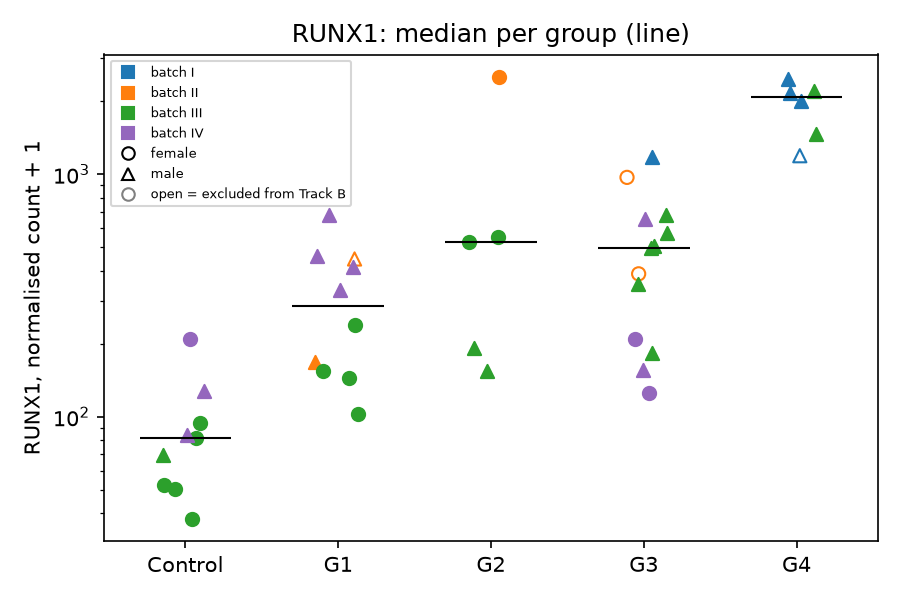
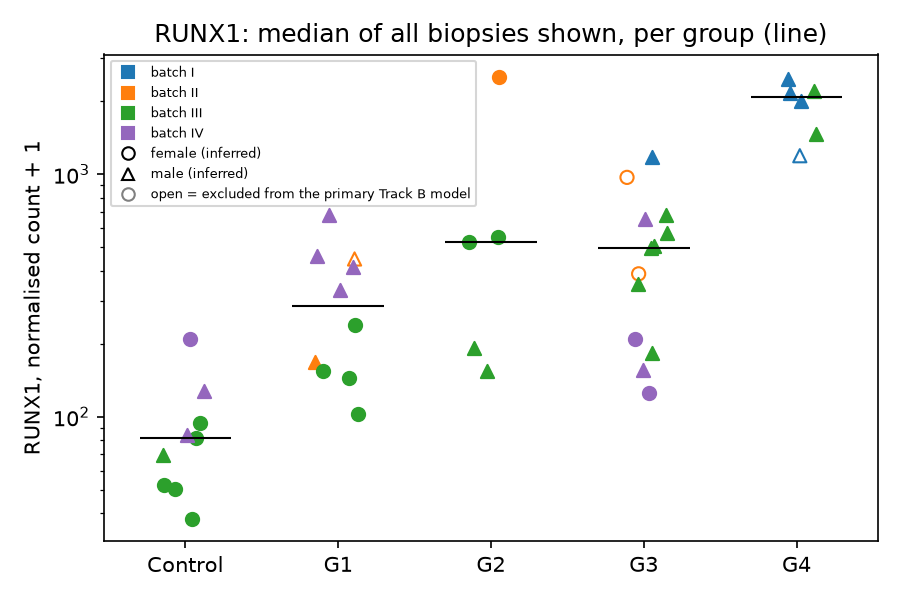
Correct Step 3 worksheet wording and add the batch overlap output

Changed region(s): [[0.1556, 0.03, 0.9333, 0.12], [0.3111, 0.3, 0.5289, 0.36], [0.2178, 0.24, 0.3111, 0.3]]

diff --git a/practical/scripts/step3_differential_expression.py b/practical/scripts/step3_differential_expression.py
@@ -59,10 +59,14 @@ Outputs (results/step3_de/track_b/):
   robustness.csv.gz, sensitive_to_32_0016.csv, sensitivity_comparison.csv, preflight.txt,
   score_robustness.csv.gz (view B: same sign and >= 50% of the slope in score_nosex,
   score_all34 and both omissions; same sign in G4 vs G1), summary.txt
+  batch_overlap.csv               genes at padj < 0.05 with and without batch (ladder_none vs
+                                  ladder_batch): both, only one, and the totals
 
 Run:  uv run --locked python scripts/step3_differential_expression.py              (all fits)
       uv run --locked python scripts/step3_differential_expression.py --fit primary (one fit)
       uv run --locked python scripts/step3_differential_expression.py --preflight   (no fit)
+      uv run --locked python scripts/step3_differential_expression.py --no-fit      (summaries
+                                                    and comparisons from the saved fits only)
 """
 
 from __future__ import annotations
@@ -84,6 +88,7 @@ import config  # noqa: E402
 
 OUT = config.RESULTS / "step3_de" / "track_b"
 ALPHA = 0.05
+GZIP = {"method": "gzip", "mtime": 0}  # byte-stable gzip output on reruns
 REF = config.REFERENCE_LEVEL
 MAIN = "~ batch + sex + condition"
 SCORE = "~ batch + sex + score"
@@ -338,7 +343,8 @@ def robustness() -> list[str]:
     table["robust_with_rochester"] = table["robust_planned"] & table["holds_rochester"]
     table["autosomal"] = table["chromosome"].isin(AUTOSOMES)
     table["biomarker"] = table["gene_name"].isin(config.BIOMARKERS)
-    table.to_csv(OUT / "robustness.csv.gz", float_format="%.6g", index_label="gene_id")
+    table.to_csv(OUT / "robustness.csv.gz", float_format="%.6g", index_label="gene_id",
+                 compression=GZIP)
 
     omit = tables["omit_32_0016"]
     only = omit.index[(omit["padj"] < ALPHA) & ~(primary["padj"].reindex(omit.index) < ALPHA)]
@@ -388,6 +394,23 @@ def robustness() -> list[str]:
             comparison.to_string(index=False)]
 
 
+def batch_overlap() -> list[str]:
+    """Worksheet check: genes at padj < 0.05 without batch (ladder_none, ~ condition) and with
+    batch (ladder_batch, ~ batch + condition), on the same 39 biopsies."""
+    paths = {f: OUT / f / TABLE for f in ["ladder_none", "ladder_batch"]}
+    missing = [f for f, path in paths.items() if not path.exists()]
+    if missing:
+        return [f"batch overlap: skipped, not run yet: {', '.join(missing)}"]
+    sig = {f: set(pd.read_csv(path, index_col=0).query("padj < @ALPHA").index)
+           for f, path in paths.items()}
+    none, batch = sig["ladder_none"], sig["ladder_batch"]
+    row = {"without_batch": len(none), "with_batch": len(batch), "both": len(none & batch),
+           "only_without_batch": len(none - batch), "only_with_batch": len(batch - none)}
+    pd.DataFrame([row]).to_csv(OUT / "batch_overlap.csv", index=False)
+    return ["batch overlap (padj < 0.05, ~ condition vs ~ batch + condition): "
+            + ", ".join(f"{k} {v}" for k, v in row.items())]
+
+
 def score_robustness() -> list[str]:
     """View B: genes with padj < 0.05 for the score slope, checked in the four score
     sensitivities (same sign, >= 50% of the slope) and against G4 vs G1 (same sign)."""
@@ -411,7 +434,8 @@ def score_robustness() -> list[str]:
     table["holds_g4_vs_g1"] = g4.notna() & (np.sign(g4) == np.sign(sig["log2FoldChange"]))
     table["robust_b"] = table[[c for c in table.columns if c.startswith("holds_")]].all(axis=1)
     table["autosomal"] = table["chromosome"].isin(AUTOSOMES)
-    table.to_csv(OUT / "score_robustness.csv.gz", float_format="%.6g", index_label="gene_id")
+    table.to_csv(OUT / "score_robustness.csv.gz", float_format="%.6g", index_label="gene_id",
+                 compression=GZIP)
     big = table["lfc_span"].abs() >= 1
     return [f"score (view B): {len(table)} genes with padj < {ALPHA}; robust "
             f"{int(table['robust_b'].sum())}; robust with |log2FC across the span| >= 1 "
@@ -427,6 +451,8 @@ def main() -> None:
     parser.add_argument("--fit", action="append", choices=list(FITS),
                         help="run only this fit (repeatable); default: all fits")
     parser.add_argument("--preflight", action="store_true", help="checks only, no fit")
+    parser.add_argument("--no-fit", action="store_true",
+                        help="rebuild summaries and comparisons from the saved fits only")
     args = parser.parse_args()
     fits = args.fit or list(FITS)
     OUT.mkdir(parents=True, exist_ok=True)
@@ -437,11 +463,11 @@ def main() -> None:
     if args.preflight:
         return
     annot = gene_annotation()
-    for name in fits:
+    for name in ([] if args.no_fit else fits):
         run_fit(name, x, meta, annot)
     lines = [(OUT / f / "summary.txt").read_text(encoding="utf-8").rstrip()
              for f in FITS if (OUT / f / "summary.txt").exists()]
-    robustness_lines = robustness() + score_robustness()
+    robustness_lines = robustness() + batch_overlap() + score_robustness()
     lines += robustness_lines
     (OUT / "summary.txt").write_text("\n".join(lines) + "\n", encoding="utf-8")
     print("\n".join(robustness_lines))

diff --git a/practical/scripts/bonus_select_genes.py b/practical/scripts/bonus_select_genes.py
@@ -22,7 +22,7 @@ Outputs (results/bonus/translator/):
                              the rank of every such gene in every run (no effect on the choice)
   selected_genes_across_fits.csv   the chosen genes in every Track B fit and contrast
   normalised_counts_selected.csv   their counts / full-cohort size factors, per biopsy
-  counts_<gene>.png                those counts by group, colour = batch, shape = sex
+  counts_<gene>.png                those counts by group, colour = batch, shape = inferred sex
   selection.txt              the chosen genes and their Translator question
 
 Run:  uv run --locked python scripts/bonus_select_genes.py
@@ -84,7 +84,7 @@ def flags(table: pd.DataFrame, lists: dict[str, set[str]]) -> pd.DataFrame:
     out["immediate_early"] = name.isin(lists["immediate_early"])
     out["composition"] = name.isin(lists["composition"]) | name.str.startswith("HLA-")
     # Yao 2014: the count features mapped in yao_mapping() (by Ensembl ID, or by a unique symbol
-    # for IDs absent from the deposited counts, e.g. DUXA and five PRAMEF genes).
+    # for IDs absent from the deposited counts: DUXA, PRAMEF5, PRAMEF13, PRAMEF18 and two RP11 clones).
     out["yao2014_target"] = table.index.isin(lists["yao2014_features"])
     for key in ["transcription_factor", "chromatin", "regeneration", "known_regulator"]:
         out[key] = name.isin(lists[key])
@@ -207,14 +207,15 @@ def across_fits(genes: dict[str, str]) -> pd.DataFrame:
 
 def count_plots(genes: dict[str, str]) -> pd.DataFrame:
     """Counts / full-cohort size factors (Track A) for the chosen genes, per biopsy, plotted by
-    group; colour = batch, marker = inferred sex, open markers = excluded from Track B."""
+    group; colour = batch, marker = inferred sex, open markers = excluded from the primary Track B
+    model. The median line of each group uses every biopsy shown."""
     counts = pd.read_csv(config.PROCESSED / "counts_filtered.csv", index_col=0)
     size = pd.read_csv(config.RESULTS / "step3_de" / "track_a" / "size_factors.csv",
                        index_col="sample")["size_factor_deposited"]
     _, meta = de.sample_table()
     norm = counts.loc[list(genes.values())] / size[counts.columns]
     table = meta[["group", "batch", "sex", "site", "score"]].copy()
-    table["excluded_from_track_b"] = table.index.isin(config.TRACK_B_EXCLUDE)
+    table["excluded_from_primary_track_b"] = table.index.isin(config.TRACK_B_EXCLUDE)
     for label, gene in genes.items():
         table[label] = norm.loc[gene, table.index]
     order = [de.REF, "G1", "G2", "G3", "G4"]
@@ -226,7 +227,7 @@ def count_plots(genes: dict[str, str]) -> pd.DataFrame:
         for i, group in enumerate(order):
             sub = table[table["group"] == group]
             x = i + rng.uniform(-0.15, 0.15, len(sub))
-            for (batch, sex, excl), part in sub.groupby(["batch", "sex", "excluded_from_track_b"]):
+            for (batch, sex, excl), part in sub.groupby(["batch", "sex", "excluded_from_primary_track_b"]):
                 idx = sub.index.get_indexer(part.index)
                 ax.scatter(x[idx], part[label] + 1, marker="o" if sex == "female" else "^",
                            s=40, facecolors="none" if excl else colours[batch],
@@ -237,12 +238,12 @@ def count_plots(genes: dict[str, str]) -> pd.DataFrame:
         ax.set_ylabel(f"{label}, normalised count + 1")
         handles = [plt.Line2D([], [], marker="s", ls="", color=c, label=f"batch {b}")
                    for b, c in colours.items()]
-        handles += [plt.Line2D([], [], marker="o", ls="", mfc="none", mec="k", label="female"),
-                    plt.Line2D([], [], marker="^", ls="", mfc="none", mec="k", label="male"),
+        handles += [plt.Line2D([], [], marker="o", ls="", mfc="none", mec="k", label="female (inferred)"),
+                    plt.Line2D([], [], marker="^", ls="", mfc="none", mec="k", label="male (inferred)"),
                     plt.Line2D([], [], marker="o", ls="", mfc="none", mec="grey",
-                               label="open = excluded from Track B")]
+                               label="open = excluded from the primary Track B model")]
         ax.legend(handles=handles, fontsize=6, loc="upper left")
-        ax.set_title(f"{label}: median per group (line)")
+        ax.set_title(f"{label}: median of all biopsies shown, per group (line)")
         fig.tight_layout()
         fig.savefig(OUT / f"counts_{label}.png", dpi=150)
         plt.close(fig)

diff --git a/practical/scripts/step3_compare_published.py b/practical/scripts/step3_compare_published.py
@@ -73,8 +73,8 @@ def main() -> None:
             row[f"{stat}_max_abs_diff"] = float((a - b).abs().max())
         cols = sample_columns(published)
         pub_norm = published.loc[shared, list(cols)].astype(float).rename(columns=cols)
-        ours_norm = normalised.loc[shared, pub_norm.columns]
-        rel = ((pub_norm - ours_norm).abs() / ours_norm.where(ours_norm > 0)).stack()
+        recomputed_norm = normalised.loc[shared, pub_norm.columns]
+        rel = ((pub_norm - recomputed_norm).abs() / recomputed_norm.where(recomputed_norm > 0)).stack()
         row["norm_samples"] = len(cols)
         row["norm_max_rel_diff"] = float(rel.max())
         rows.append(row)

diff --git a/practical/worksheets/step3_de.md b/practical/worksheets/step3_de.md
@@ -18,12 +18,12 @@ Design formula: `~ batch + sex + condition` (primary, FSHD vs control). The grou
 Covariates included and why, or why not:
 - **Batch (4 runs).** Library size and the instrument follow batch (`results/step2_qc/`). Batch explains 36% of PC1 and 33% of PC2 (`pca_associations.csv`).
 - **Sex, inferred from expression** (`results/step2_qc/sex_check.csv`). GEO gives no sex for the controls. Sex is imbalanced: controls are 6 women and 3 men, while G4 is 0 women and 5 men. Sex genes sit on PC2. The recorded GEO labels stay unchanged in the sample table, and X/Y genes are not interpreted.
-- **Site, sensitivity only** (`~ batch + sex + site + condition`). All 9 controls are from Rochester (banked biopsies), so the site effect is learned from FSHD biopsies alone. `32` = Seattle (authors' follow-up workbook); `01` = Rochester, inferred from that roster and the paper's 18 participants per site (`scripts/config.py`, `SITE_BY_PREFIX`).
-- **Library size and mapping rate are not covariates.** Size factors and batch absorb them. The three libraries below 90% mapping are excluded instead.
+- **Site, sensitivity only** (`~ batch + sex + site + condition`). All 9 controls are from Rochester (banked biopsies), so the site effect is learned from FSHD biopsies alone. Within Rochester, the controls still differ from the cases in how they were banked and handled. `32` = Seattle (authors' follow-up workbook); `01` = Rochester, inferred from that roster and the paper's 18 participants per site (`scripts/config.py`, `SITE_BY_PREFIX`).
+- **Library size and mapping rate are not covariates.** Size factors correct for sequencing depth, and batch captures average differences between runs; mapping differences specific to one library can remain. The three libraries below 90% mapping are therefore excluded (restored in `all43`).
 
 Covariates you wanted and could not include, and why:
 - **Age:** missing for every control in GEO.
-- **Biopsied muscle:** all controls are quadriceps, so it cannot be separated from condition.
+- **Biopsied muscle:** not in GEO (Table S1 only). All controls are quadriceps, as are 6 of the 34 FSHD biopsies (paper, Results). Muscle is therefore not fully confounded with condition, but it cannot be adjusted for in the full design; only a quadriceps-only comparison would separate the two, and it was not run.
 - **Relatedness of controls to patients:** not recorded in GEO.
 - **Tissue composition (fat, inflammation, blood):** deliberately not adjusted, because it is part of the disease.
 
@@ -45,8 +45,8 @@ Figures: MA plot, volcano plot and p-value histogram, in `results/step3_de/track
 
 Track A, the reproduction of the paper's tables, is exact (`results/step3_de/track_a/published_comparison.txt`):
 - S4 (the two G1 outliers) 5,680, S5 (G1) 393, S6 (G2) 303, S8 (G3) 816, S10 (G4) 2,826 genes at padj < 0.05 and |log2FC| ≥ 2;
-- the same genes as the published tables (0 missing, 0 extra), with shared log2FC within 0.0004;
-- the notebook-only contrasts also match: G1 without its two outliers 40, G2 active 540.
+- the same genes as the five published tables (0 missing, 0 extra); the largest absolute log2FC difference is 0.000408 (S4);
+- the two contrasts that exist only in the authors' notebook give the same numbers of genes as the notebook: G1 without its two outliers 40, G2 active 540. No published list exists to compare the genes themselves.
 
 Top 10 genes by adjusted p-value, primary FSHD vs Control (`primary/de_FSHD_vs_Control.csv.gz`):
 
@@ -68,16 +68,16 @@ These are extracellular matrix and fibrosis genes (COMP, TNMD, PRG4, CTGF), stre
 ## Checks
 
 - **Describe the p-value histogram: a flat part with a spike near 0, or another shape?**
-  A large spike in the first bin (about 4,200 genes with p < 0.02), then a flat part from about 0.3 to 1 (about 350–450 genes per bin). Between them, a gentle decline from 0.02 to about 0.3 shows many small effects (`primary/pvalue_histogram_FSHD_vs_Control.png`). There is no hump near 1 and no U shape, so the model does not look misspecified. The unadjusted model has the same shape with a higher spike, about 6,500 genes (`ladder_none/`).
+  A large spike in the first bin (about 4,200 genes with p < 0.02), then a flat part from about 0.3 to 1 (about 350–450 genes per bin). Between them, a gradual decline from 0.02 to about 0.3 (`primary/pvalue_histogram_FSHD_vs_Control.png`). There is no hump near 1 and no U shape, two common signs of a misspecified model; the histogram alone does not show that the model is adequate. The unadjusted model has the same shape with a higher spike, about 6,500 genes (`ladder_none/`).
 
 - **Run the analysis with and without batch in the design. Report how many genes are significant in both, and in one only.**
-  On the same 39 biopsies, `~ condition` gives 5,509 genes and `~ batch + condition` gives 4,315. That is 4,166 genes in both, 1,343 only without batch and 149 only with batch. Adding batch removes about a quarter of the calls, but the effects of the genes kept are stable. Of the 2,577 primary genes, 2,560 keep their direction and at least half their log2FC without any adjustment, and 2,565 without sex (`sensitivity_comparison.csv`, `robustness.csv.gz`). Adding sex brings the count down to 2,577. The full ladder of models and the other sensitivity runs (site, all 43, 32-0004 restored, 32-0016 omitted, Rochester only) are in `sensitivity_comparison.csv`. Effects hold in 2,416–2,577 of the 2,577 genes; site mostly widens the standard errors (median SE ratio 1.15).
+  On the same 39 biopsies, `~ condition` gives 5,509 genes and `~ batch + condition` gives 4,315. That is 4,166 genes in both, 1,343 only without batch and 149 only with batch (`batch_overlap.csv`). Adding batch removes about a quarter of the calls, but the effects of the genes kept are stable. Of the 2,577 primary genes, 2,560 keep their direction and at least half their log2FC without any adjustment, and 2,565 without sex (`sensitivity_comparison.csv`, `robustness.csv.gz`). Adding sex brings the count down to 2,577. The full ladder of models and the other sensitivity runs (site, all 43, 32-0004 restored, 32-0016 omitted, Rochester only) are in `sensitivity_comparison.csv`. Effects hold in 2,416–2,577 of the 2,577 genes; site mostly widens the standard errors (median SE ratio 1.15).
 
 - **Group 1 biopsies show almost no expression of the biomarkers. Count the genes that differ between group 1 and the controls, and list the explanations you can think of other than the disease.**
   Track B, `~ batch + sex + group`: 1,002 genes (866 up, 136 down); 1,945 without batch and sex (`groups_none`). Track A, the paper's design: 393 at |log2FC| ≥ 2, but only 40 once the two G1 outliers, 01-0037 and 32-0016, are removed (`track_a/summary.txt`). Explanations other than the disease:
-  - **Two outlier libraries.** 01-0037 maps at 76.5%; 32-0016 is a fat-rich biopsy. They carry most of the paper's G1 signal.
-  - **How the biopsies were collected and stored.** The controls are banked Rochester biopsies, so needle, handling and ischaemia time may differ; the immediate early genes are a sign of this. Site and banking are confounded with condition.
-  - **Muscle and age.** All controls are quadriceps and younger (mean 35 vs 53.6 years), while G1 biopsies come from several muscles.
+  - **Two outlier libraries.** 01-0037 maps at 76.5%; 32-0016 is a fat-rich biopsy. The number of G1 calls depends heavily on these two (393 with them, 40 without); that count does not measure how much biological signal they carry.
+  - **How the biopsies were collected and stored.** The controls are banked Rochester biopsies, so needle, handling and ischaemia time may differ. The raised immediate early genes (FOS, FOSB) are compatible with a handling difference of unknown size. Banking is confounded with condition, since every control is banked; site only partly, since Rochester has both cases and controls.
+  - **Muscle and age.** All controls are quadriceps, while the G1 biopsies come from several muscles. The controls are younger: mean 35 years (paper, Methods; not in GEO), against 54.7 for the 10 published G1 biopsies and 54.0 for the 9 G1 biopsies of Track B.
   - **Sex and batch imbalance**, adjusted only in Track B.
   - **Relatedness:** controls are spouses, parents or siblings of patients.
   - **Tissue composition** (fat, fibrous tissue, immune cells): it changes bulk expression whatever its cause.
@@ -93,7 +93,7 @@ These are extracellular matrix and fibrosis genes (COMP, TNMD, PRG4, CTGF), stre
   - exclude 32-0004, a provenance flag, not a proven swap;
   - keep the biological extreme 32-0016.
 
-  Each exclusion is undone in a sensitivity run: `all43`, `restore_32_0004` and `omit_32_0016`.
+  `all43` restores all four excluded biopsies together, and `restore_32_0004` restores 32-0004 alone. `omit_32_0016` tests the opposite case: removing a biopsy kept in the primary model.
 - **Primary design `~ batch + sex + condition` with inferred sex.** Site is a sensitivity only, because all controls come from one site.
 - **Robustness rule:** same sign and at least 50% of the primary |log2FC| in each adjusted sensitivity. Significance is required in the primary only, because smaller fits lose power. Result: 2,408 robust genes over the five planned sensitivities (2,319 on chr1–22), and 2,385 with Rochester (2,297 on chr1–22).
 - **Rochester-only fit added**, to remove the site difference between cases and controls. Its effects hold for 2,436 of 2,577 genes. They do not depend on Cook's replacement: 2,440 without it (`rochester_norefit`).

diff --git a/practical/worksheets/bonus_translator.md b/practical/worksheets/bonus_translator.md
@@ -37,7 +37,7 @@ This is exploratory, for the bonus. No comparison of biopsies taken at a single 
   - every `HLA-` symbol;
   - adipocyte genes: ADIPOQ, LEP, PLIN1, PLIN4, CIDEA, CIDEC, FABP4;
   - neutrophil genes: S100A8, S100A9, S100A12, FCGR3B, CXCR1, CXCR2, CSF3R, ELANE, MPO, CAMP, LTF;
-  - immunoglobulins are already excluded as not protein-coding.
+  - features with a GENCODE immunoglobulin gene type are excluded by the protein-coding filter (`gene_type == "protein_coding"`).
 - **View B pick only:** the 213 robust DUX4-induced genes of Yao et al. 2014, Supplementary Table S1. Each row is mapped to at most one count feature:
   - by Ensembl ID without version (136 rows);
   - otherwise by symbol, only if the symbol names exactly one feature not already assigned (6 rows, including DUXA and three PRAMEF genes). Ambiguous symbols are dropped, not chosen.

diff --git a/practical/bonus_lists/README.md b/practical/bonus_lists/README.md
@@ -7,7 +7,7 @@ Snapshot prepared 24 November 2026 for the AI for Omics transcriptomics practica
 **Getting them again.**
 - Download the three original files from the URLs in `sources.tsv`: the Lambert TF list, EpiFactors and the Yao workbook.
 - Rebuild the three extracts as described in the `acquisition_and_scope` column: the Tullai ESBL table, the QuickGO human annotations, and the two-column Yao TSV.
-- Then check them from `practical/data/raw/bonus_lists/` with `sha256sum -c SHA256SUMS`.
+- Then check them against the tracked manifest. From `practical/`: `(cd data/raw/bonus_lists && sha256sum -c ../../../bonus_lists/SHA256SUMS)`.
 
 All five reference datasets are included. Yao Supplementary Table S1 is provided as the original workbook and an extracted two-column TSV.
 
